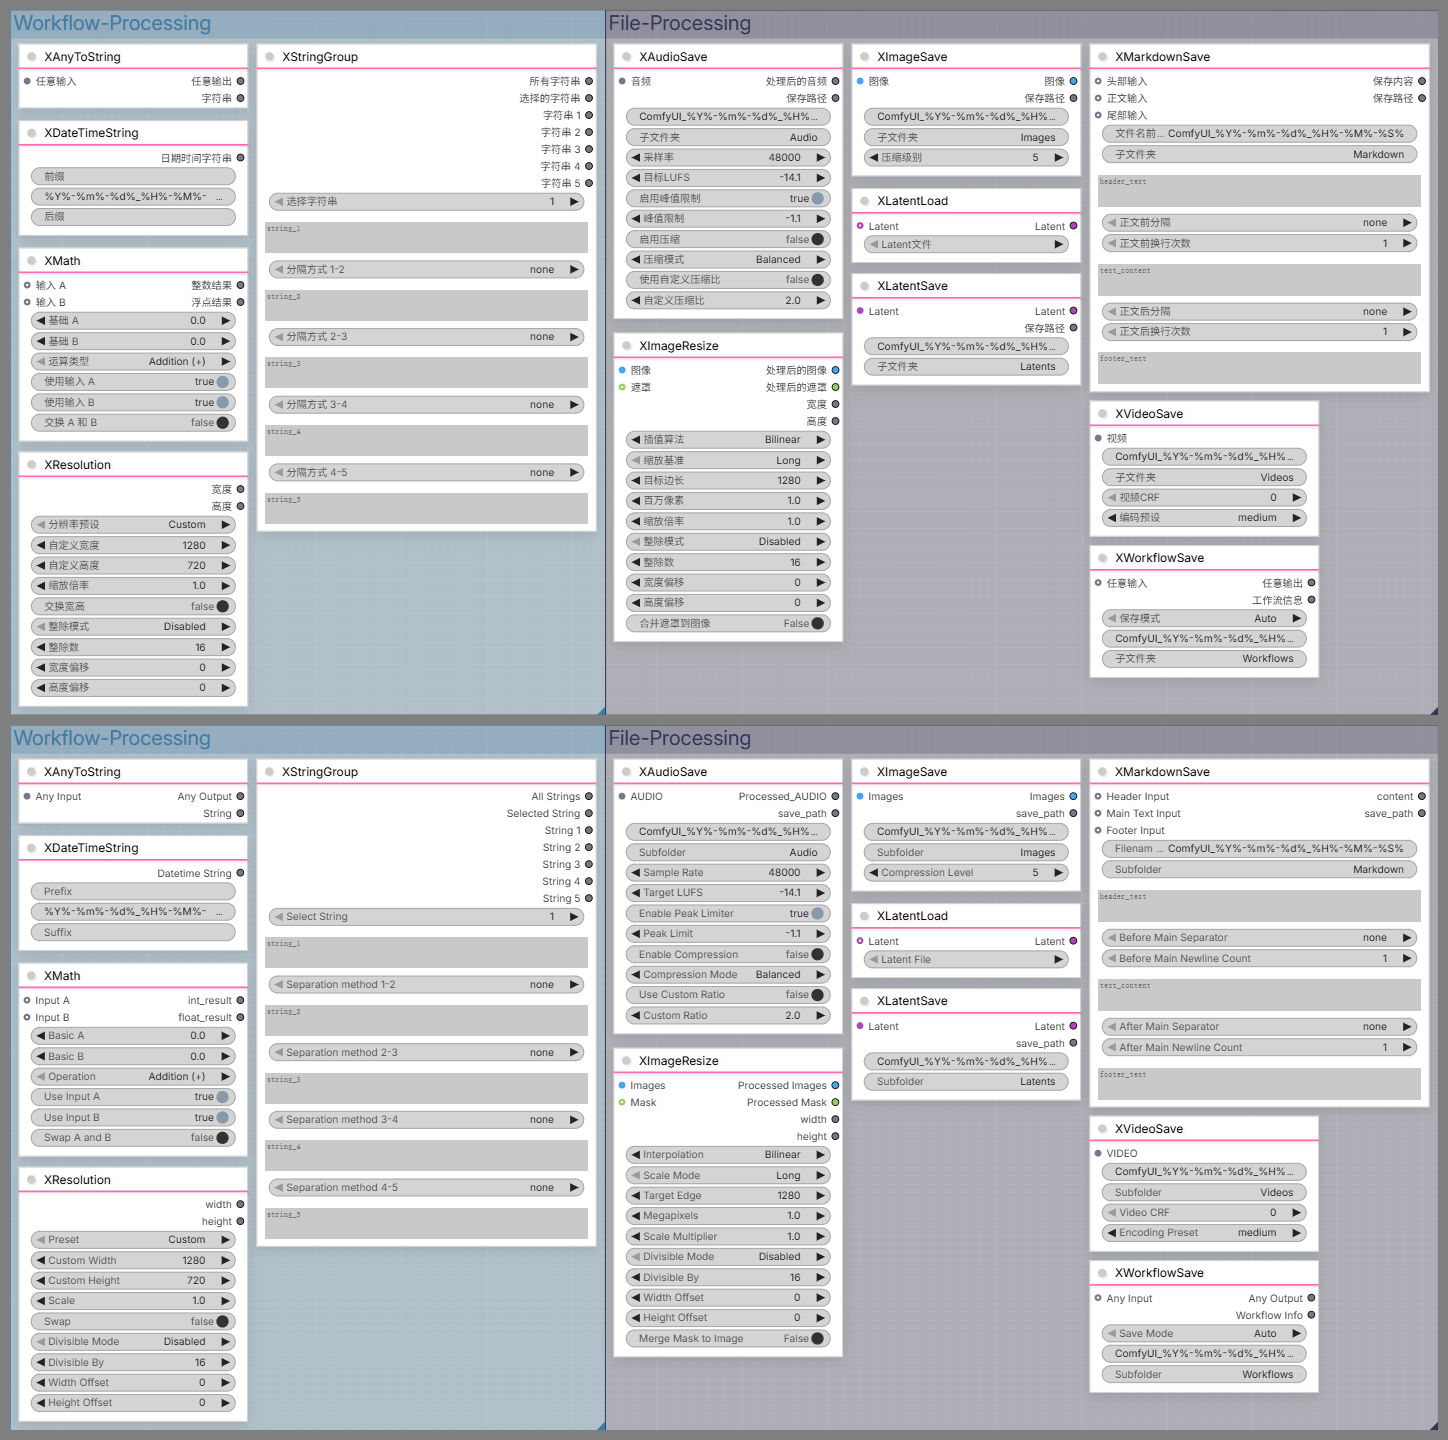
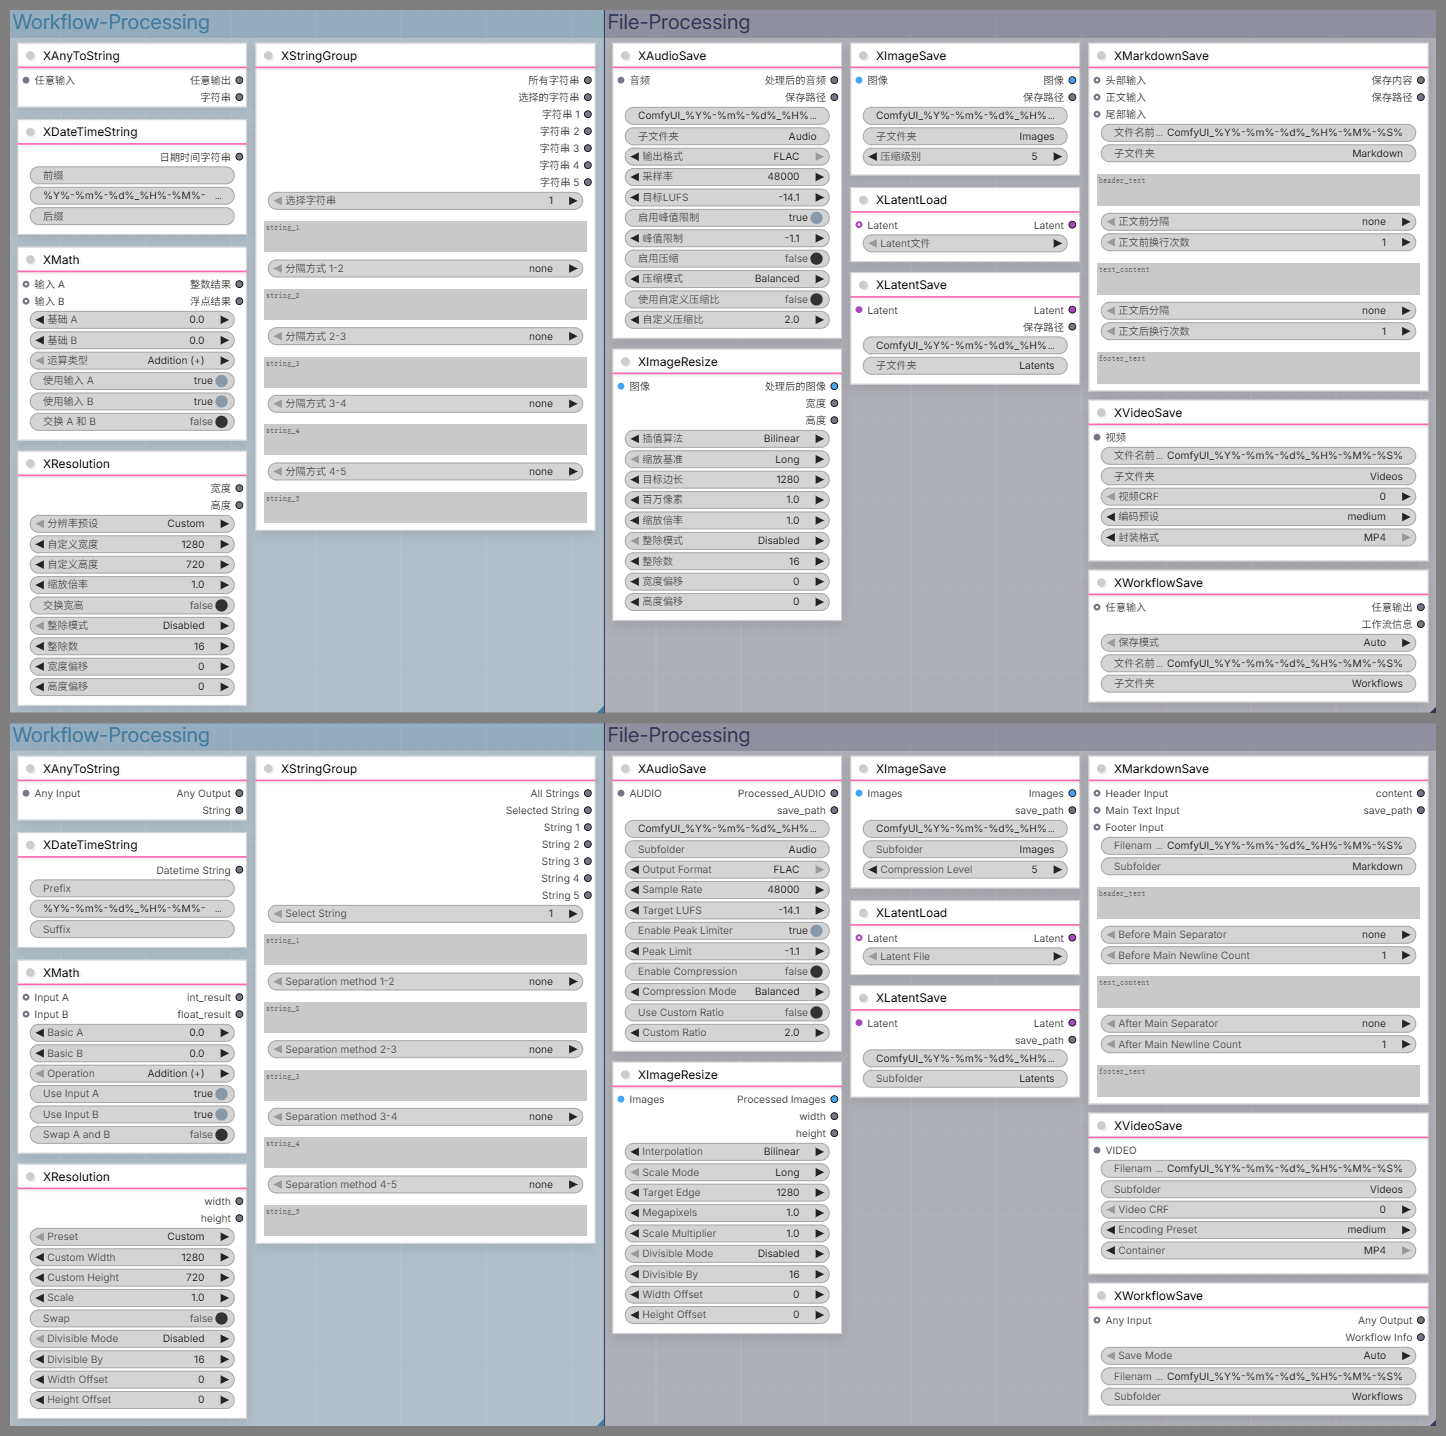
更新

diff --git a/Changelog.md b/Changelog.md
@@ -37,7 +37,7 @@
 - 将 `Standard` 保存模式名称改为 `Native` (原生)
     - 原生模式所保存 JSON 的元数据 (Prompt + Workflow 字段) 与官方的保存图片节点所保存到图片中的元数据一致 (`XImageSave` 和 `XLatentSave` 节点保存的元数据也是一致的)
 
-### 5. 增强 `XAudioSave` 音频保存节点
+### 5. 🛠 增强 `XAudioSave` 音频保存节点
 - 新增 `FLAC` 无损文件保存格式
     - `FLAC` 格式支持工作流元数据嵌入, 支持直接拖入 ComfyUI 网页界面读取工作流
         - `WAV` 格式并不支持工作流元数据嵌入, 虽然两个音频格式都是无损类, 但 `WAV` 格式是精度更高的 32位浮点 所以音频质量会更高些 (虽然对于绝大多数人来说和 `FLAC` 没区别)
@@ -45,22 +45,19 @@
     - `WAV`
     - `FLAC` (默认)
 
-### 6. 增强 `XVideoSave` 视频保存节点
+### 6. 🛠 增强 `XVideoSave` 视频保存节点
 - 新增 `MP4` 文件保存格式
     - `MP4` 格式支持工作流元数据嵌入, 支持直接拖入 ComfyUI 网页界面读取工作流
         - 虽然 `MP4` 支持拖入网页界面读取工作流, 但是 `MP4` 格式对无损和音频合并的兼容性没有 `MKV` 格式好
-        - 虽然 `MKV` 是无损和音频合并兼容性最佳的格式, 但是由于该格式在嵌入工作流元数据时, 元数据的键名会被强制改为大写 (PROMPT/WORKFLOW), 而 ComfyUI 网页界面只会读 (Prompt/Workflow) 的元数据键名, 所以即使 `MKV` 格式被嵌入了工作流元数据也无法拖入到 ComfyUI 网页界面加载工作流
+        - 虽然 `MKV` 是无损和音频合并兼容性最佳的格式, 但是 ComfyUI 网页界面不支持读取嵌入到 `MKV` 的工作流元数据, 所以也无法拖入到 ComfyUI 网页界面加载工作流
 - 新增选择音频格式的下拉菜单:
     - `MKV`
     - `MP4` (默认)
         - 如果因为 `MP4` 的兼容性遇到报错可以选择 `MKV` (但是就不支持加载工作流了. 无论选什么格式都有问题, 头痛😕)
 
-
-
-
-### 5. 🛠 增强 `XMetadataWorkflow` 工作流元数据可视化查看网页工具
-- 将原来工具内部解析多种不同文件和不同元数据格式的单一实现方式, 改为独立分开的元数据解析模式
-    - 将元数据解析模式分开可以大幅降低以后的维护难度, 但也会降低对使用者的易用性, 因为不再是原来那样全自动了.
+### 7. 🛠 增强 `XMetadataWorkflow` 工作流元数据可视化查看网页工具
+- 将原先工具内部解析多种不同文件和不同元数据格式的单一实现方式, 改为独立分开的元数据解析模式
+    - 将元数据解析模式分开独立可以大幅降低以后的维护难度, 但也会降低对使用者的易用性, 因为不再是原来那样全自动了.
 - 新增位于网页工具视图顶部的元数据解析模式选择按钮 (默认为: `Native` 原生模式)
     - `📋 Native` 原生 模式, 仅基于元数据中的 Workflow 字段数据进行解析
     - `🔗 Native (Merged)` 原生合并 模式, 基于元数据中的 Prompt 和 Workflow 双字段进行合并解析
@@ -72,12 +69,12 @@
 - 新增 🔄 重置网页按钮
     - 按钮位于网页工具视图右上角
 
-### 6. 🛠 增强 `XFitView` 网页扩展
+### 8. 🛠 增强 `XFitView` 网页扩展
 - 适应视图支持子图 (Subgraph) 页面
     - ComfyUI 设置页面中已新增工作流和子图分别在 进入/退出 时的适应视图设置选项
 
-### 7. 🛠 增强 `XLatentSave` 和 `XLatentLoad` Latnet 处理节点
-- 代码内部添加 Latent 基础验证功能, 以验证获取或加载的 Latent 是否符合 ComfyUI 规范
+### 9. 🛠 增强 `XLatentSave` 和 `XLatentLoad` Latnet 处理节点
+- 代码内部添加 `Latent` 数据基础验证功能, 以验证获取或加载的 Latent 是否符合 ComfyUI 规范
     - Latent 基础验证：
         - 类型验证 - 必须是字典 (dict)
         - 键验证 - 必须包含 "samples" 键
@@ -90,10 +87,140 @@
     - type
 - 额外的可选键并不是必须数据, 无论是基础数据还是可选数据都是上游生成 Latent 的节点负责的, 如果生成的 Latent 不符合规范, 这属于是上游节点的问题, 并不是 `XLatentSave` 和 `XLatentLoad` 的责任
 
-### 8. 🛠增强和调整 所有节点和网页扩展
-- 所有节点迁移至V3 API
-    -不会影响节点原本的功能, 除非迁移的过程中搞错了什么
-- 所有节点和网页扩展进行了代码优化和修复Bug (然后引入新的Bug🤣)
+### 10. 🛠增强和调整 所有节点和网页扩展
+- 所有节点的代码规范迁移至 V3 API
+    - 不会影响节点原本的功能, 除非迁移的过程中搞错了什么
+- 所有节点和网页扩展进行了代码优化和修复Bug (然后引入新的未知Bug🤣)
+
+---
+
+### ⚠ Notes
+- This `1.6.0` update is the largest update in this project so far, and I
+  may have forgotten to include some changes in this changelog.
+- If you find any issues, please submit feedback in GitHub Issues.
+
+
+### 1. ⭐ Added `XAnyToString` Any Data to String Node
+- Includes an input port for any data with passthrough output, plus a
+  dedicated string-converted output port.
+- I know most major custom node packs already have this kind of node, but my
+  pack did not, so I decided to reinvent the wheel 😈
+- The `XMath` node's Input A/B ports can accept integers and floats and output
+  integers and floats. With this new node, all three main data types
+  (int/float/string) now have conversion support 😌
+
+### 2. ⭐ Added `XMarkdownSave` Markdown File Save Node
+- Saves string content as a Markdown file.
+- Header/Main/Footer string text input boxes.
+- Optional Header/Main/Footer string input ports with higher priority.
+- Separator mode between Header/Main/Footer content (default: `none`):
+    - `none`: No separator, content is directly concatenated.
+    - `newline`: New line (`\n`).
+- Number of line breaks when using `newline` (default: `1`).
+- Output ports for string content and file save path.
+- Supports date identifiers in file names and subfolder names.
+
+### 3. 🪛 Adjusted `XImageResize` Image Resize Node
+- Removed megapixel protection limit in Long/Short edge modes.
+    - After reconsideration, this felt redundant because the node already has
+      a dedicated `Megapixels` mode.
+- Changed megapixels input range to `0.1-100` (default: 1.0).
+- Renamed output port to `Processed_Images`.
+- The node now follows the official resize-node behavior:
+  in batch mode, the whole batch is resized to one shared target resolution.
+
+### 4. 🪛 Adjusted `XWorkflowSave` Workflow Metadata JSON Save Node
+- Removed `FullWorkflow` save mode.
+    - After reconsideration, this felt redundant because
+      `Prompt+FullWorkflow` already provides more complete data.
+- Renamed `Standard` save mode to `Native`.
+    - Metadata saved in Native mode (`Prompt` + `Workflow`) is consistent with
+      metadata saved into images by ComfyUI official save-image behavior
+      (also consistent with metadata saved by `XImageSave` and
+      `XLatentSave`).
+
+### 5. 🛠 Enhanced `XAudioSave` Audio Save Node
+- Added `FLAC` lossless save format.
+    - `FLAC` supports embedded workflow metadata and can be dragged directly
+      into the ComfyUI web UI to load workflows.
+        - `WAV` does not support embedded workflow metadata. Although both are
+          lossless formats, `WAV` uses higher-precision 32-bit float, so audio
+          quality can be slightly higher (though for most users there's no
+          practical difference from `FLAC`).
+- Added an audio format dropdown:
+    - `WAV`
+    - `FLAC` (default)
+
+### 6. 🛠 Enhanced `XVideoSave` Video Save Node
+- Added `MP4` save format.
+    - `MP4` supports embedded workflow metadata and can be dragged directly
+      into the ComfyUI web UI to load workflows.
+        - Even though `MP4` supports drag-and-load workflows in the web UI,
+          its compatibility for lossless mode and audio merge is not as good
+          as `MKV`.
+        - `MKV` has better compatibility for lossless mode and audio merge,
+          but the ComfyUI web UI cannot read workflow metadata embedded in
+          `MKV`, so you cannot drag `MKV` back into the UI to load workflows.
+- Added a video format dropdown:
+    - `MKV`
+    - `MP4` (default)
+        - If `MP4` compatibility causes errors, switch to `MKV` (but workflow
+          loading from drag-and-drop will not be available).
+
+### 7. 🛠 Enhanced `XMetadataWorkflow` Workflow Metadata Visualization Web Tool
+- Reworked metadata parsing from one mixed parser into separate parser modes
+  for different file types and metadata structures.
+    - This greatly reduces future maintenance cost, but is less user-friendly
+      than the previous fully automatic behavior.
+- Added metadata parse-mode buttons at the top of the web tool
+  (default: `Native`):
+    - `📋 Native`: Parses only the `Workflow` field.
+    - `🔗 Native (Merged)`: Merges and parses both `Prompt` and `Workflow`.
+    - `🔗 P+FW`: Merges and parses both `Prompt` and `Full Workflow`.
+        - This mode is specifically for JSON saved by `XWorkflowSave` with
+          `Prompt+FullWorkflow`.
+- Added `💾 Convert XWorkflowSave JSON` feature to convert JSON saved by
+  `XWorkflowSave` into a format that can be loaded by the ComfyUI web UI.
+    - The node-saved JSON uses nested structure, which the ComfyUI web UI
+      cannot load directly. Nesting is used so the web tool can distinguish
+      which parts belong to `Prompt` and which parts belong to
+      `(Full)Workflow`. This conversion removes that nesting.
+    - After conversion (nesting removed), the JSON can only be parsed with
+      `Native` mode.
+- Added a `🔄 Reset Web` button.
+    - Located in the top-right of the web tool view.
+
+### 8. 🛠 Enhanced `XFitView` Web Extension
+- Fit View now supports Subgraph pages.
+    - ComfyUI settings now include separate fit-view options for workflow and
+      subgraph when entering/leaving.
+
+### 9. 🛠 Enhanced `XLatentSave` and `XLatentLoad` Latent Processing Nodes
+- Added built-in basic `Latent` data validation to verify whether fetched or
+  loaded Latent data follows ComfyUI standards:
+    - Type validation: must be a dictionary (`dict`)
+    - Key validation: must include `"samples"` key
+    - Tensor validation: `samples` must be `torch.Tensor`
+    - Dimension validation: `samples` must be 4D `[B,C,H,W]` or
+      5D `[B,C,T,H,W]`
+    - Compatibility: image, audio, 3D, video, inpaint, batch processing, and
+      all standard ComfyUI 4D/5D Latent types
+- `XLatentSave` and `XLatentLoad` do not validate whether optional extra keys
+  in Latent are standard-compliant, such as:
+    - `noise_mask`
+    - `batch_index`
+    - `type`
+- Optional extra keys are not required data. Whether base data or optional
+  data, responsibility belongs to upstream nodes that generate the Latent.
+  If generated Latent is non-compliant, that is an upstream-node issue, not
+  the responsibility of `XLatentSave`/`XLatentLoad`.
+
+### 10. 🛠 Enhanced and Adjusted All Nodes and Web Extensions
+- Migrated all node code style to V3 API.
+    - Original node functionality should remain unchanged unless something was
+      broken during migration.
+- Performed code optimization and bug fixes across all nodes and web
+  extensions (and probably introduced some new unknown bugs 🤣)
 </details>
 
 ---
